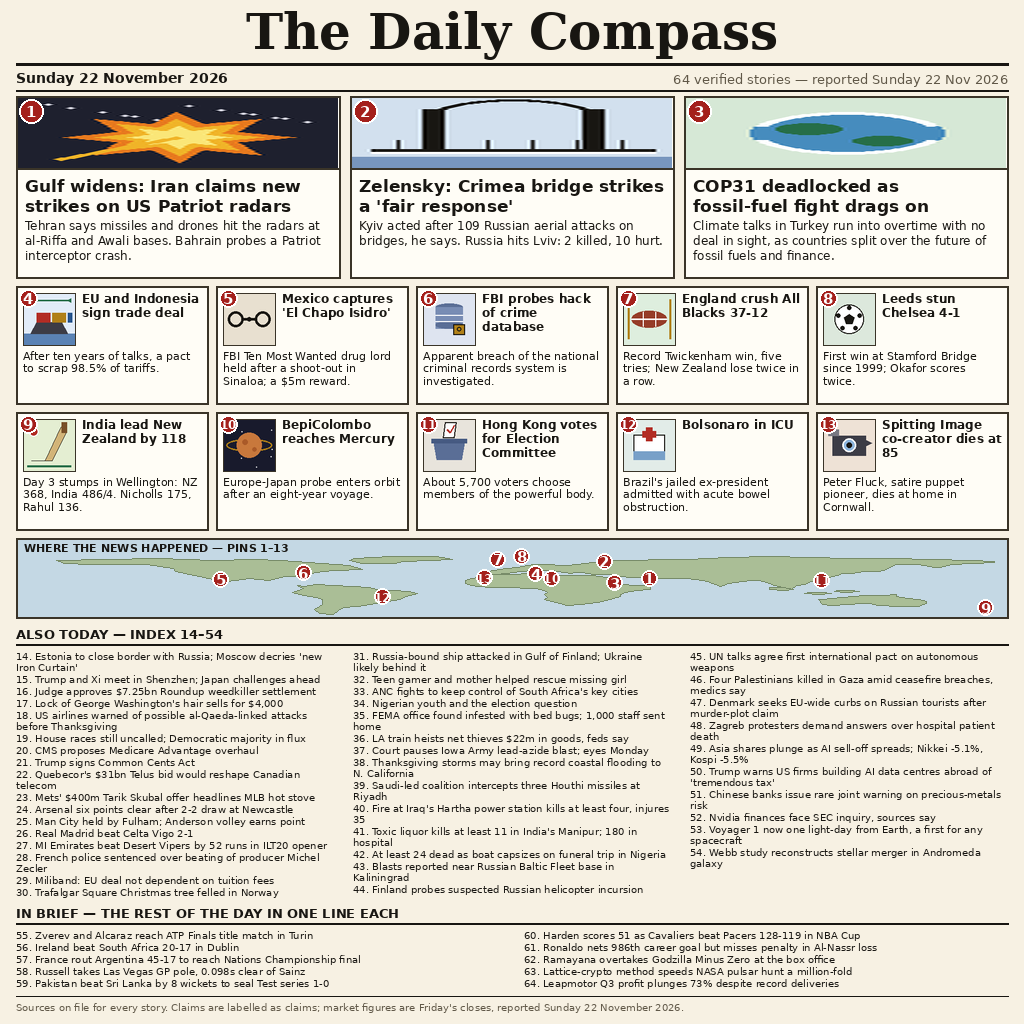
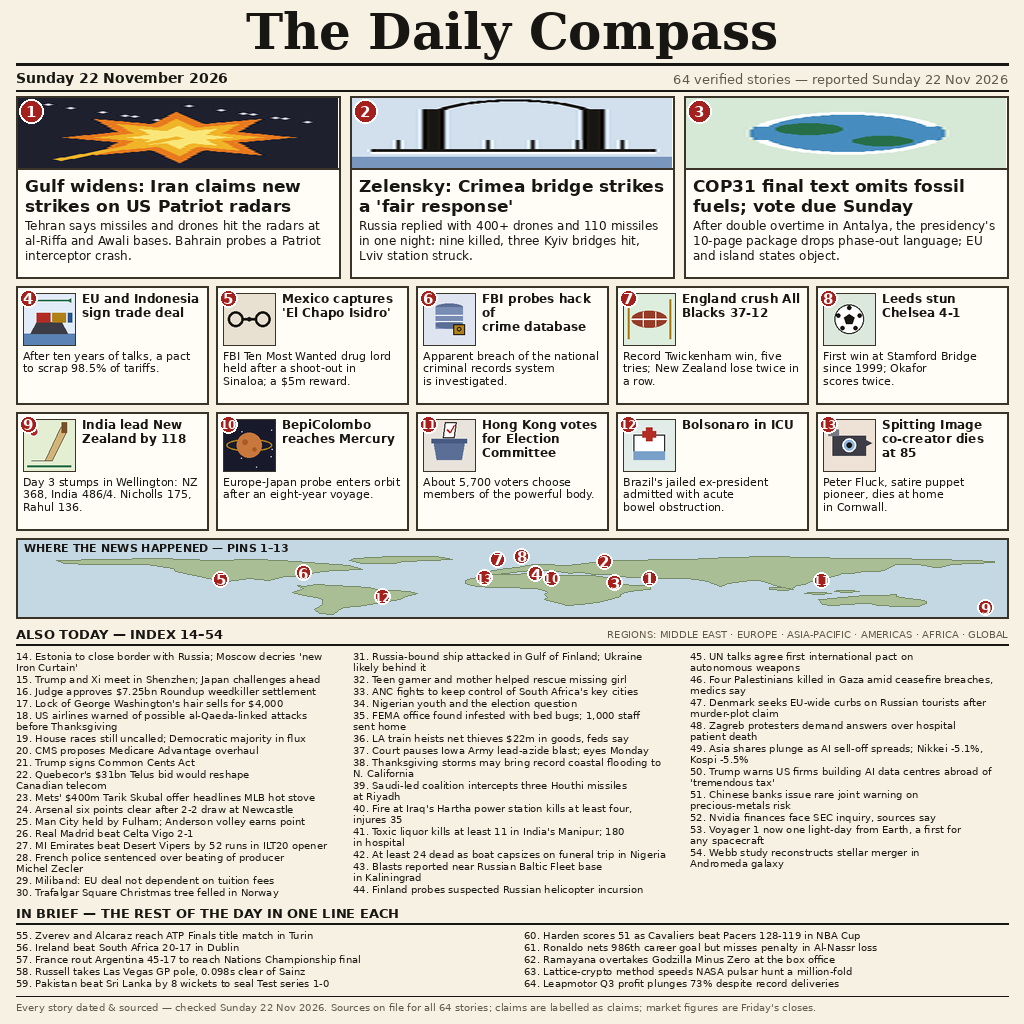
Layout polish + re-verified leads: orphan-free wrapping, regions line, dated-and-sourced footer; Ukraine barrage and COP31 final-text updates

diff --git a/main.ts b/main.ts
@@ -6,6 +6,9 @@
 // The poster bytes are fixed, so every run writes identical output.
 // Revision 2 packs the page denser: 64 verified stories (three leads, ten
 // illustrated panels, a 41-item index and a ten-line IN BRIEF strip).
+// Revision 3 polishes the layout (no orphan lines), re-verifies the
+// Ukraine and COP31 leads, and adds a regions line and a dated-and-sourced
+// footer.
 
 import { copyFileSync, mkdirSync } from "node:fs";
 import { join } from "node:path";

diff --git a/tools/render.py b/tools/render.py
@@ -1,12 +1,14 @@
 """Render The Daily Compass front page for Sunday 22 November 2026.
 
-Revision 2 (denser edition): the same newspaper front page packed tighter —
-smaller body type, tighter leading, a three-column index and a rapid-fire
-IN BRIEF strip — so one 1024x1024 page now carries 64 verified stories:
-three lead panels, ten smaller illustrated panels, a schematic world map
-with numbered pins 1-13, a numbered index for stories 14-54, and ten
-one-line briefs numbered 55-64. Output is deterministic: the same code
-always writes byte-identical PNG bytes.
+Revision 3 (layout polish + re-verified leads): the denser edition of
+revision 2 — 64 verified stories: three lead panels, ten smaller
+illustrated panels, a schematic world map with numbered pins 1-13, a
+numbered index for stories 14-54, and ten one-line briefs numbered
+55-64 — with the wrapping cleaned up so no item ends on a lone orphan
+word, the Ukraine and COP31 leads updated to the latest reporting, a
+regions line under the index header, and a stronger dated-and-sourced
+line in the footer. Output is deterministic: the same code always
+writes byte-identical PNG bytes.
 """
 
 from pathlib import Path
@@ -66,6 +68,18 @@ def wrap(d, text, font, maxw):
             cur = word
     if cur:
         lines.append(cur)
+    # Orphan fix: never leave a lone word or number on the last line —
+    # pull the previous line's last word down to join it when it fits.
+    while len(lines) >= 2:
+        last_words = lines[-1].split()
+        prev_words = lines[-2].split()
+        if len(last_words) > 1 or len(prev_words) < 2:
+            break
+        joined = prev_words[-1] + " " + lines[-1]
+        if tw(d, joined, font) > maxw:
+            break
+        lines[-2] = " ".join(prev_words[:-1])
+        lines[-1] = joined
     return lines
 
 
@@ -395,12 +409,12 @@ LEADS = [
      "bases. Bahrain probes a Patriot interceptor crash."),
     ("bridge",
      "Zelensky: Crimea bridge strikes a 'fair response'",
-     "Kyiv acted after 109 Russian aerial attacks on bridges, he says. "
-     "Russia hits Lviv: 2 killed, 10 hurt."),
+     "Russia replied with 400+ drones and 110 missiles in one night: "
+     "nine killed, three Kyiv bridges hit, Lviv station struck."),
     ("climate",
-     "COP31 deadlocked as fossil-fuel fight drags on",
-     "Climate talks in Turkey run into overtime with no deal in sight, as "
-     "countries split over the future of fossil fuels and finance."),
+     "COP31 final text omits fossil fuels; vote due Sunday",
+     "After double overtime in Antalya, the presidency's 10-page package "
+     "drops phase-out language; EU and island states object."),
 ]
 
 MINIS = [
@@ -564,6 +578,9 @@ def build():
     iy = mapy + 80 + 8
     d.text((MARGIN, iy), "ALSO TODAY — INDEX 14–54",
            font=f(SANSB, 13), fill=INK)
+    regions = "REGIONS: MIDDLE EAST · EUROPE · ASIA-PACIFIC · AMERICAS · AFRICA · GLOBAL"
+    d.text((W - MARGIN - tw(d, regions, f(SANS, 10)), iy + 2), regions,
+           font=f(SANS, 10), fill=MUTED)
     rule(d, MARGIN, iy + 18, W - MARGIN, 2)
     ifn = f(SANS, 10)
     icolw = (W - 2 * MARGIN - 2 * 20) // 3
@@ -584,8 +601,9 @@ def build():
     foot = bbot + 8
     rule(d, MARGIN, foot, W - MARGIN, 1)
     d.text((MARGIN, foot + 5),
-           "Sources on file for every story. Claims are labelled as claims; "
-           "market figures are Friday's closes, reported Sunday 22 November 2026.",
+           "Every story dated & sourced — checked Sunday 22 Nov 2026. "
+           "Sources on file for all 64 stories; claims are labelled as "
+           "claims; market figures are Friday's closes.",
            font=f(SANS, 10), fill=MUTED)
 
     OUT.parent.mkdir(parents=True, exist_ok=True)

diff --git a/README.md b/README.md
@@ -13,9 +13,11 @@ IN BRIEF strip of ten one-line stories numbered 55-64.
 
 Lead stories: Iran claiming new strikes on US Patriot radars in Bahrain
 as the Gulf confrontation widens, Zelensky calling the Crimea bridge
-strikes a 'fair response' as Russia hits Lviv, and the COP31 climate
-talks deadlocked over fossil fuels. Claims are labelled as claims on
-the poster; market figures are Friday's closes, reported on Sunday.
+strikes a 'fair response' as Russia answers with a 400-drone barrage,
+and COP31's final text omitting fossil fuels ahead of a Sunday vote.
+Every story is dated and sourced — checked Sunday 22 November 2026;
+claims are labelled as claims on the poster; market figures are
+Friday's closes, reported on Sunday.
 
 ## Files
 
